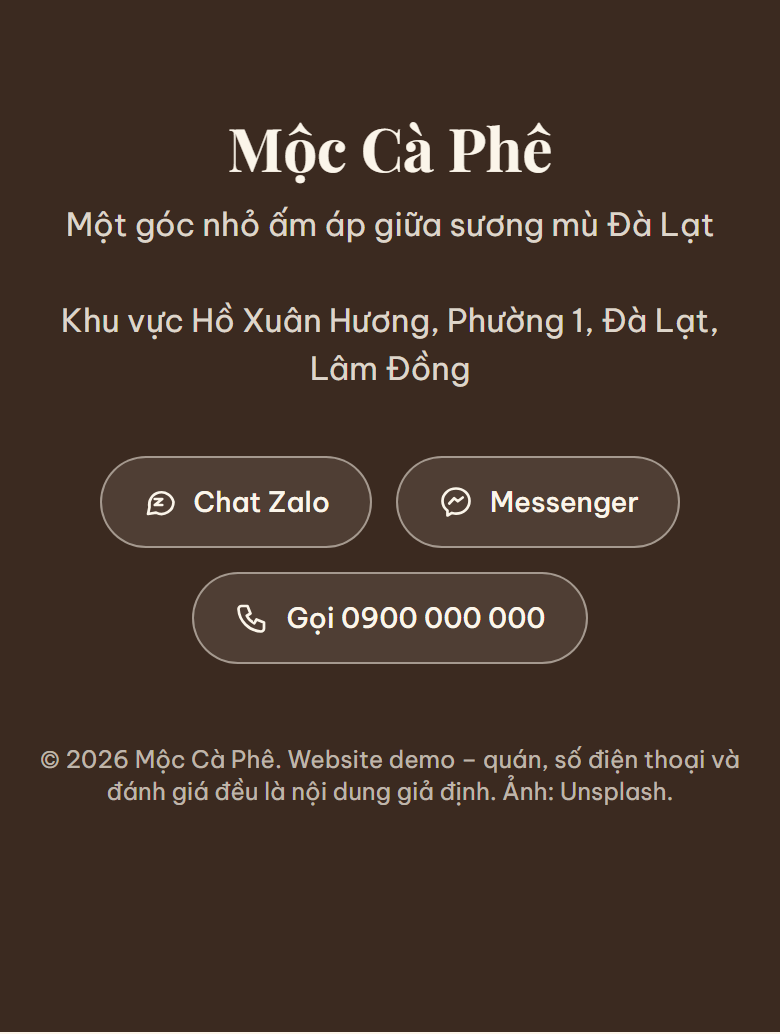
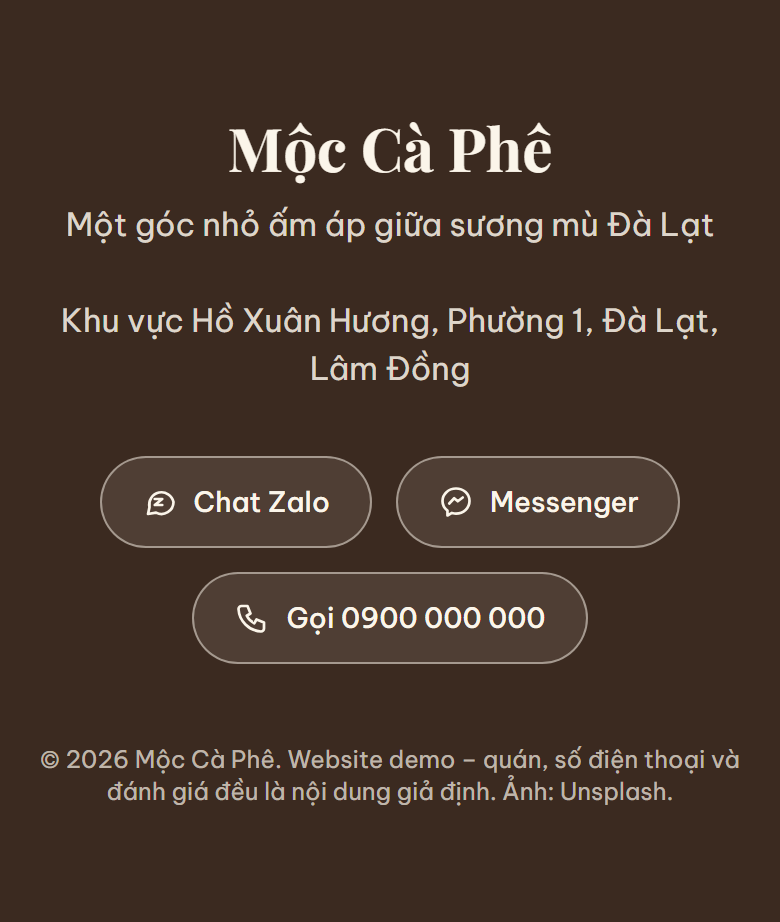
Mobile: body chừa padding-bottom bằng chiều cao thanh CTA cố định
- MobileCta tự đo chiều cao (gồm safe-area) vào biến --cta-h
- body: pb-[var(--cta-h)] trên mobile, 0 trên desktop
- Tô vùng padding cùng màu footer để không lộ dải màu kem
- Bỏ padding riêng của footer

diff --git a/components/MobileCta.tsx b/components/MobileCta.tsx
@@ -1,12 +1,28 @@
 "use client";
 
-import { useEffect, useState } from "react";
+import { useEffect, useRef, useState } from "react";
 import { CalendarCheck, Phone } from "lucide-react";
 import { SITE } from "@/lib/data";
 
 /** Thanh cố định đáy màn hình (chỉ mobile), ẩn khi phần đặt bàn đang hiển thị. */
 export default function MobileCta() {
   const [hidden, setHidden] = useState(false);
+  const barRef = useRef<HTMLDivElement>(null);
+
+  // Đo chiều cao thanh và ghi vào --cta-h để body chừa chỗ ở cuối trang.
+  useEffect(() => {
+    const el = barRef.current;
+    if (!el) return;
+    const root = document.documentElement;
+    const apply = () => root.style.setProperty("--cta-h", `${el.offsetHeight}px`);
+    apply();
+    const ro = new ResizeObserver(apply);
+    ro.observe(el);
+    return () => {
+      ro.disconnect();
+      root.style.removeProperty("--cta-h");
+    };
+  }, []);
 
   useEffect(() => {
     const target = document.getElementById("dat-ban");
@@ -20,6 +36,7 @@ export default function MobileCta() {
 
   return (
     <div
+      ref={barRef}
       aria-hidden={hidden}
       className={`fixed inset-x-0 bottom-0 z-40 border-t border-cream/15 bg-bark px-4 pt-3 shadow-[0_-4px_16px_rgba(0,0,0,0.2)] transition duration-300 md:hidden ${
         hidden ? "pointer-events-none translate-y-full opacity-0" : "translate-y-0 opacity-100"

diff --git a/app/layout.tsx b/app/layout.tsx
@@ -43,7 +43,7 @@ export const viewport: Viewport = { themeColor: "#3b2a20" };
 export default function RootLayout({ children }: { children: React.ReactNode }) {
   return (
     <html lang="vi" className={`${body.variable} ${display.variable}`}>
-      <body className="antialiased">
+      <body className="pb-[var(--cta-h,0px)] antialiased md:pb-0">
         <noscript>
           <style>{".reveal{opacity:1!important;transform:none!important}"}</style>
         </noscript>

diff --git a/app/globals.css b/app/globals.css
@@ -24,7 +24,13 @@ html {
 }
 
 body {
-  background: var(--cream);
+  /* Vùng padding-bottom chừa chỗ cho thanh CTA mobile được tô cùng màu footer,
+     để không lộ dải màu kem khi thanh bị ẩn. Desktop: --cta-h = 0. */
+  background: linear-gradient(
+    to top,
+    var(--bark) var(--cta-h, 0px),
+    var(--cream) var(--cta-h, 0px)
+  );
   color: var(--bark);
   font-family: var(--font-body), system-ui, sans-serif;
 }

diff --git a/components/Footer.tsx b/components/Footer.tsx
@@ -17,7 +17,7 @@ const icon = {
 
 export default function Footer() {
   return (
-    <footer id="lien-he" className="bg-bark px-4 pb-28 pt-14 text-cream md:pb-14">
+    <footer id="lien-he" className="bg-bark px-4 py-14 text-cream">
       <div className="mx-auto max-w-6xl text-center">
         <p className="font-serif text-3xl font-bold">Mộc Cà Phê</p>
         <p className="mt-2 text-cream/85">{SITE.tagline}</p>
